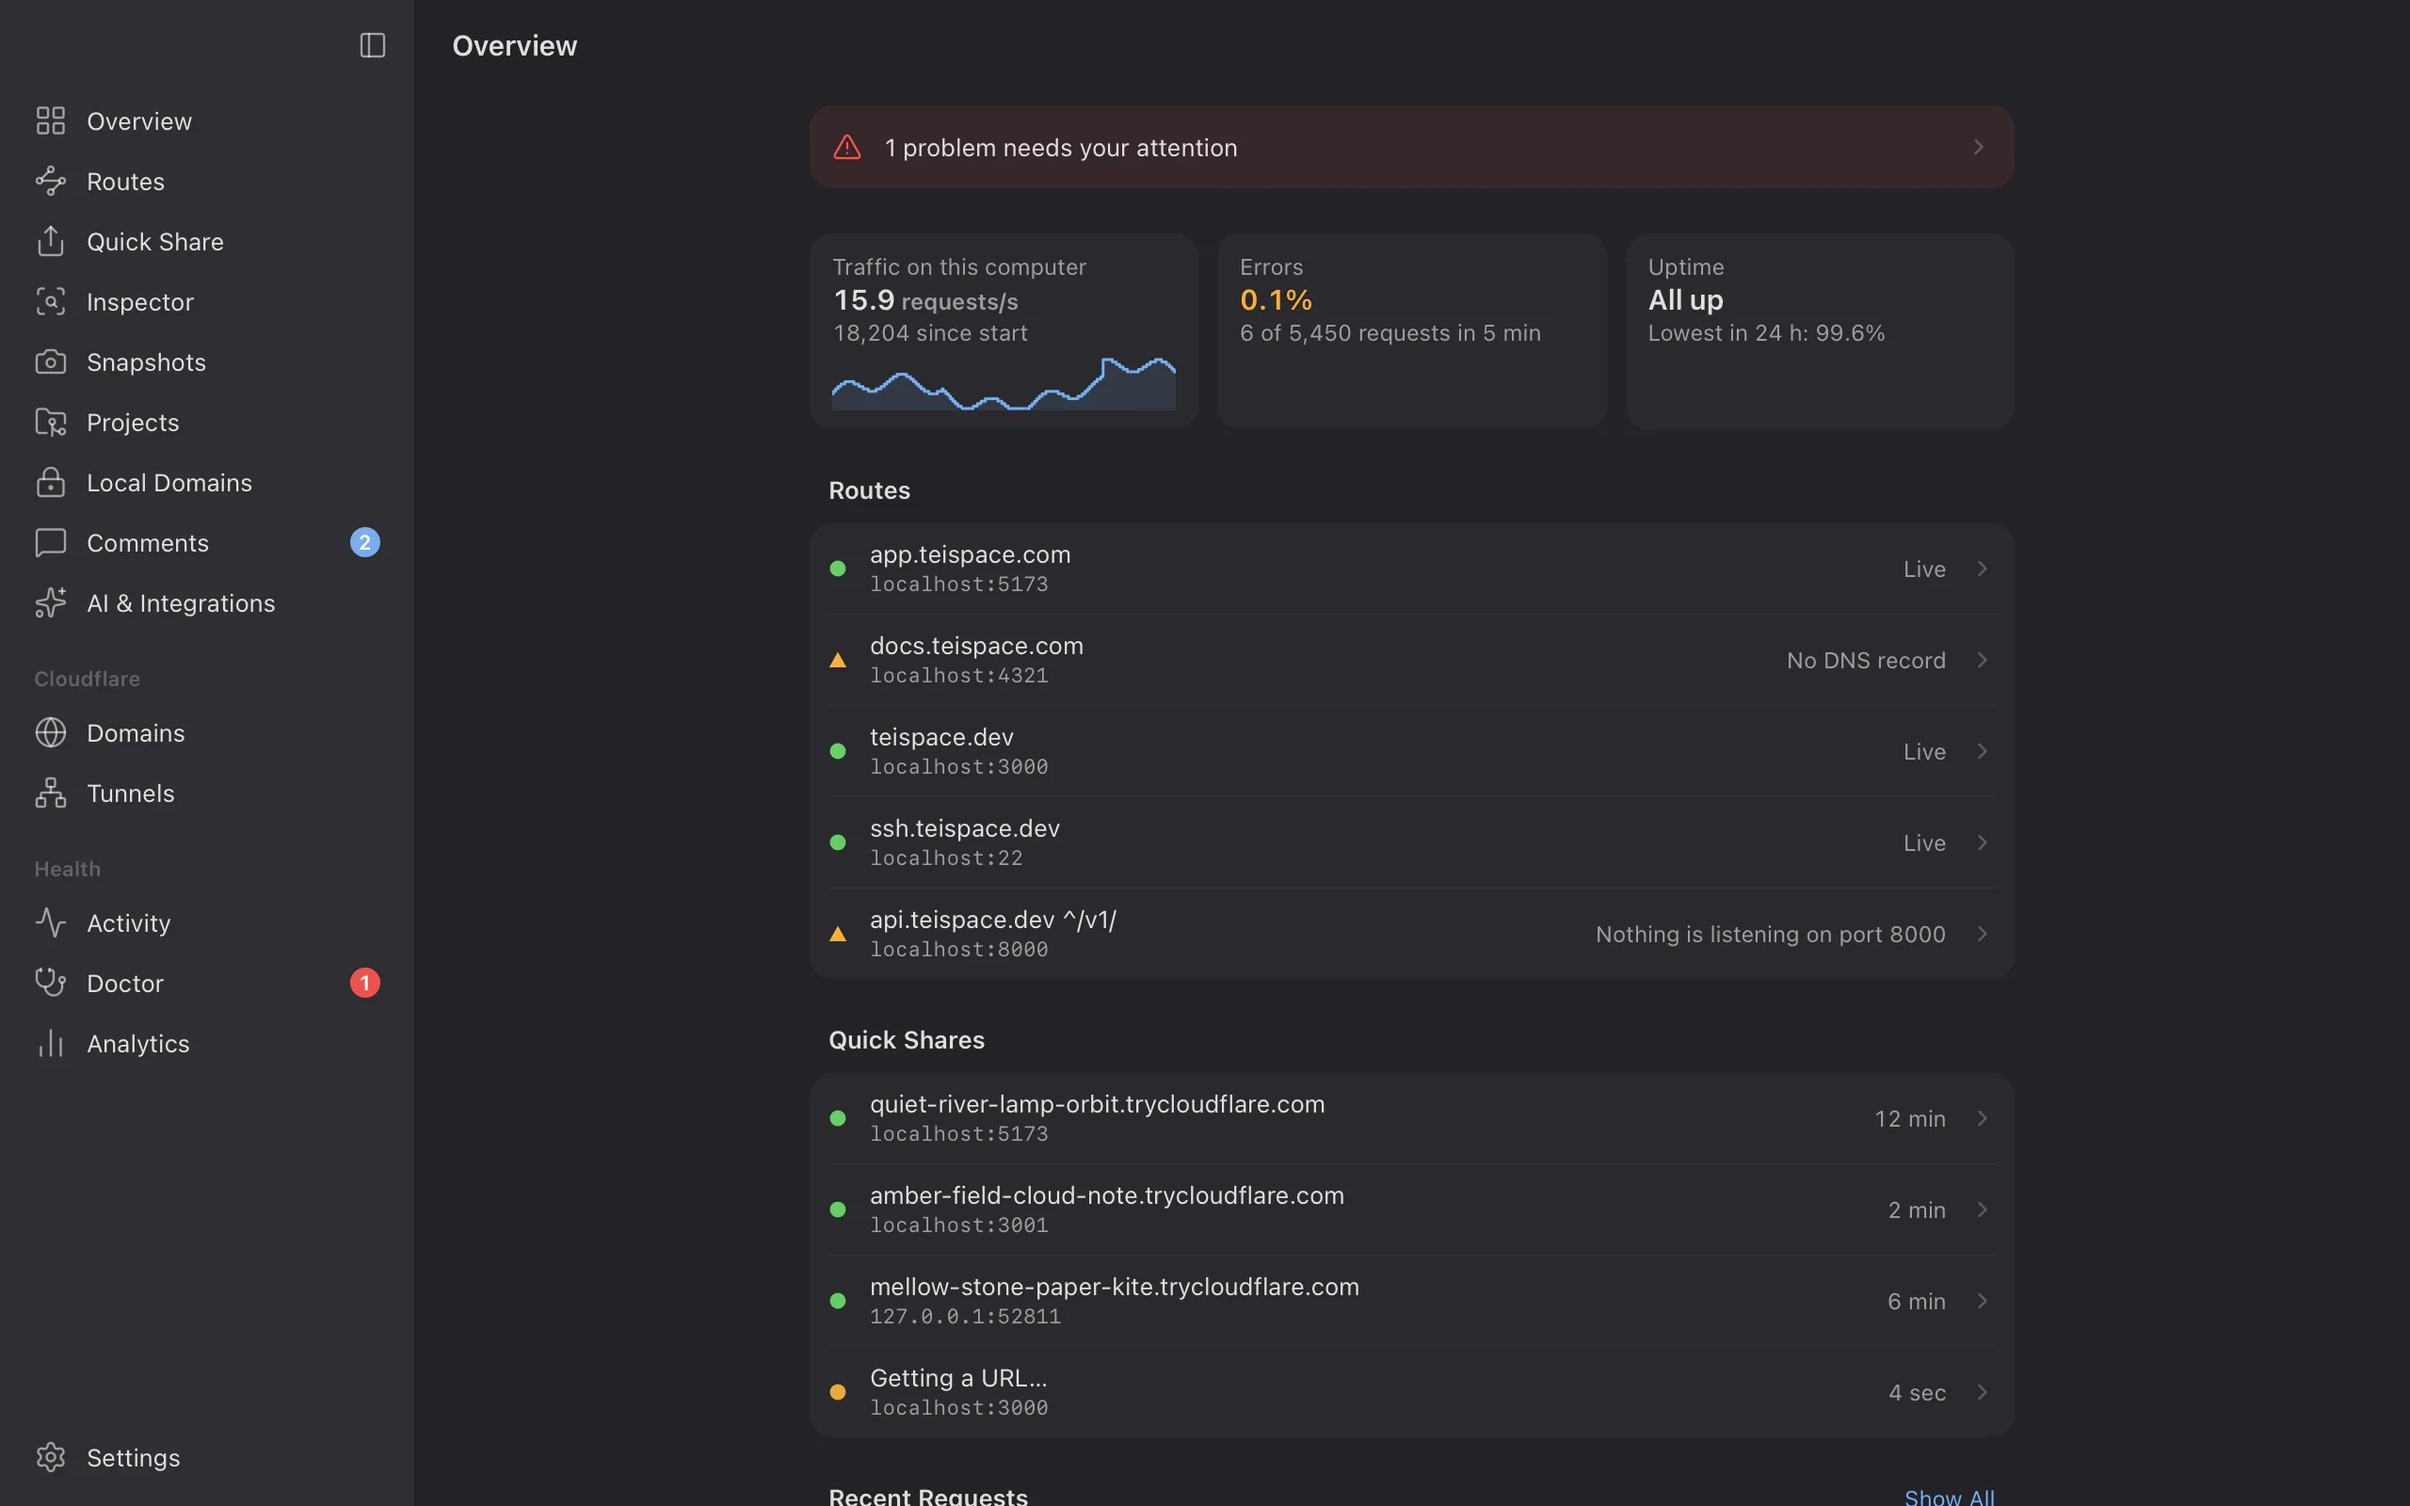
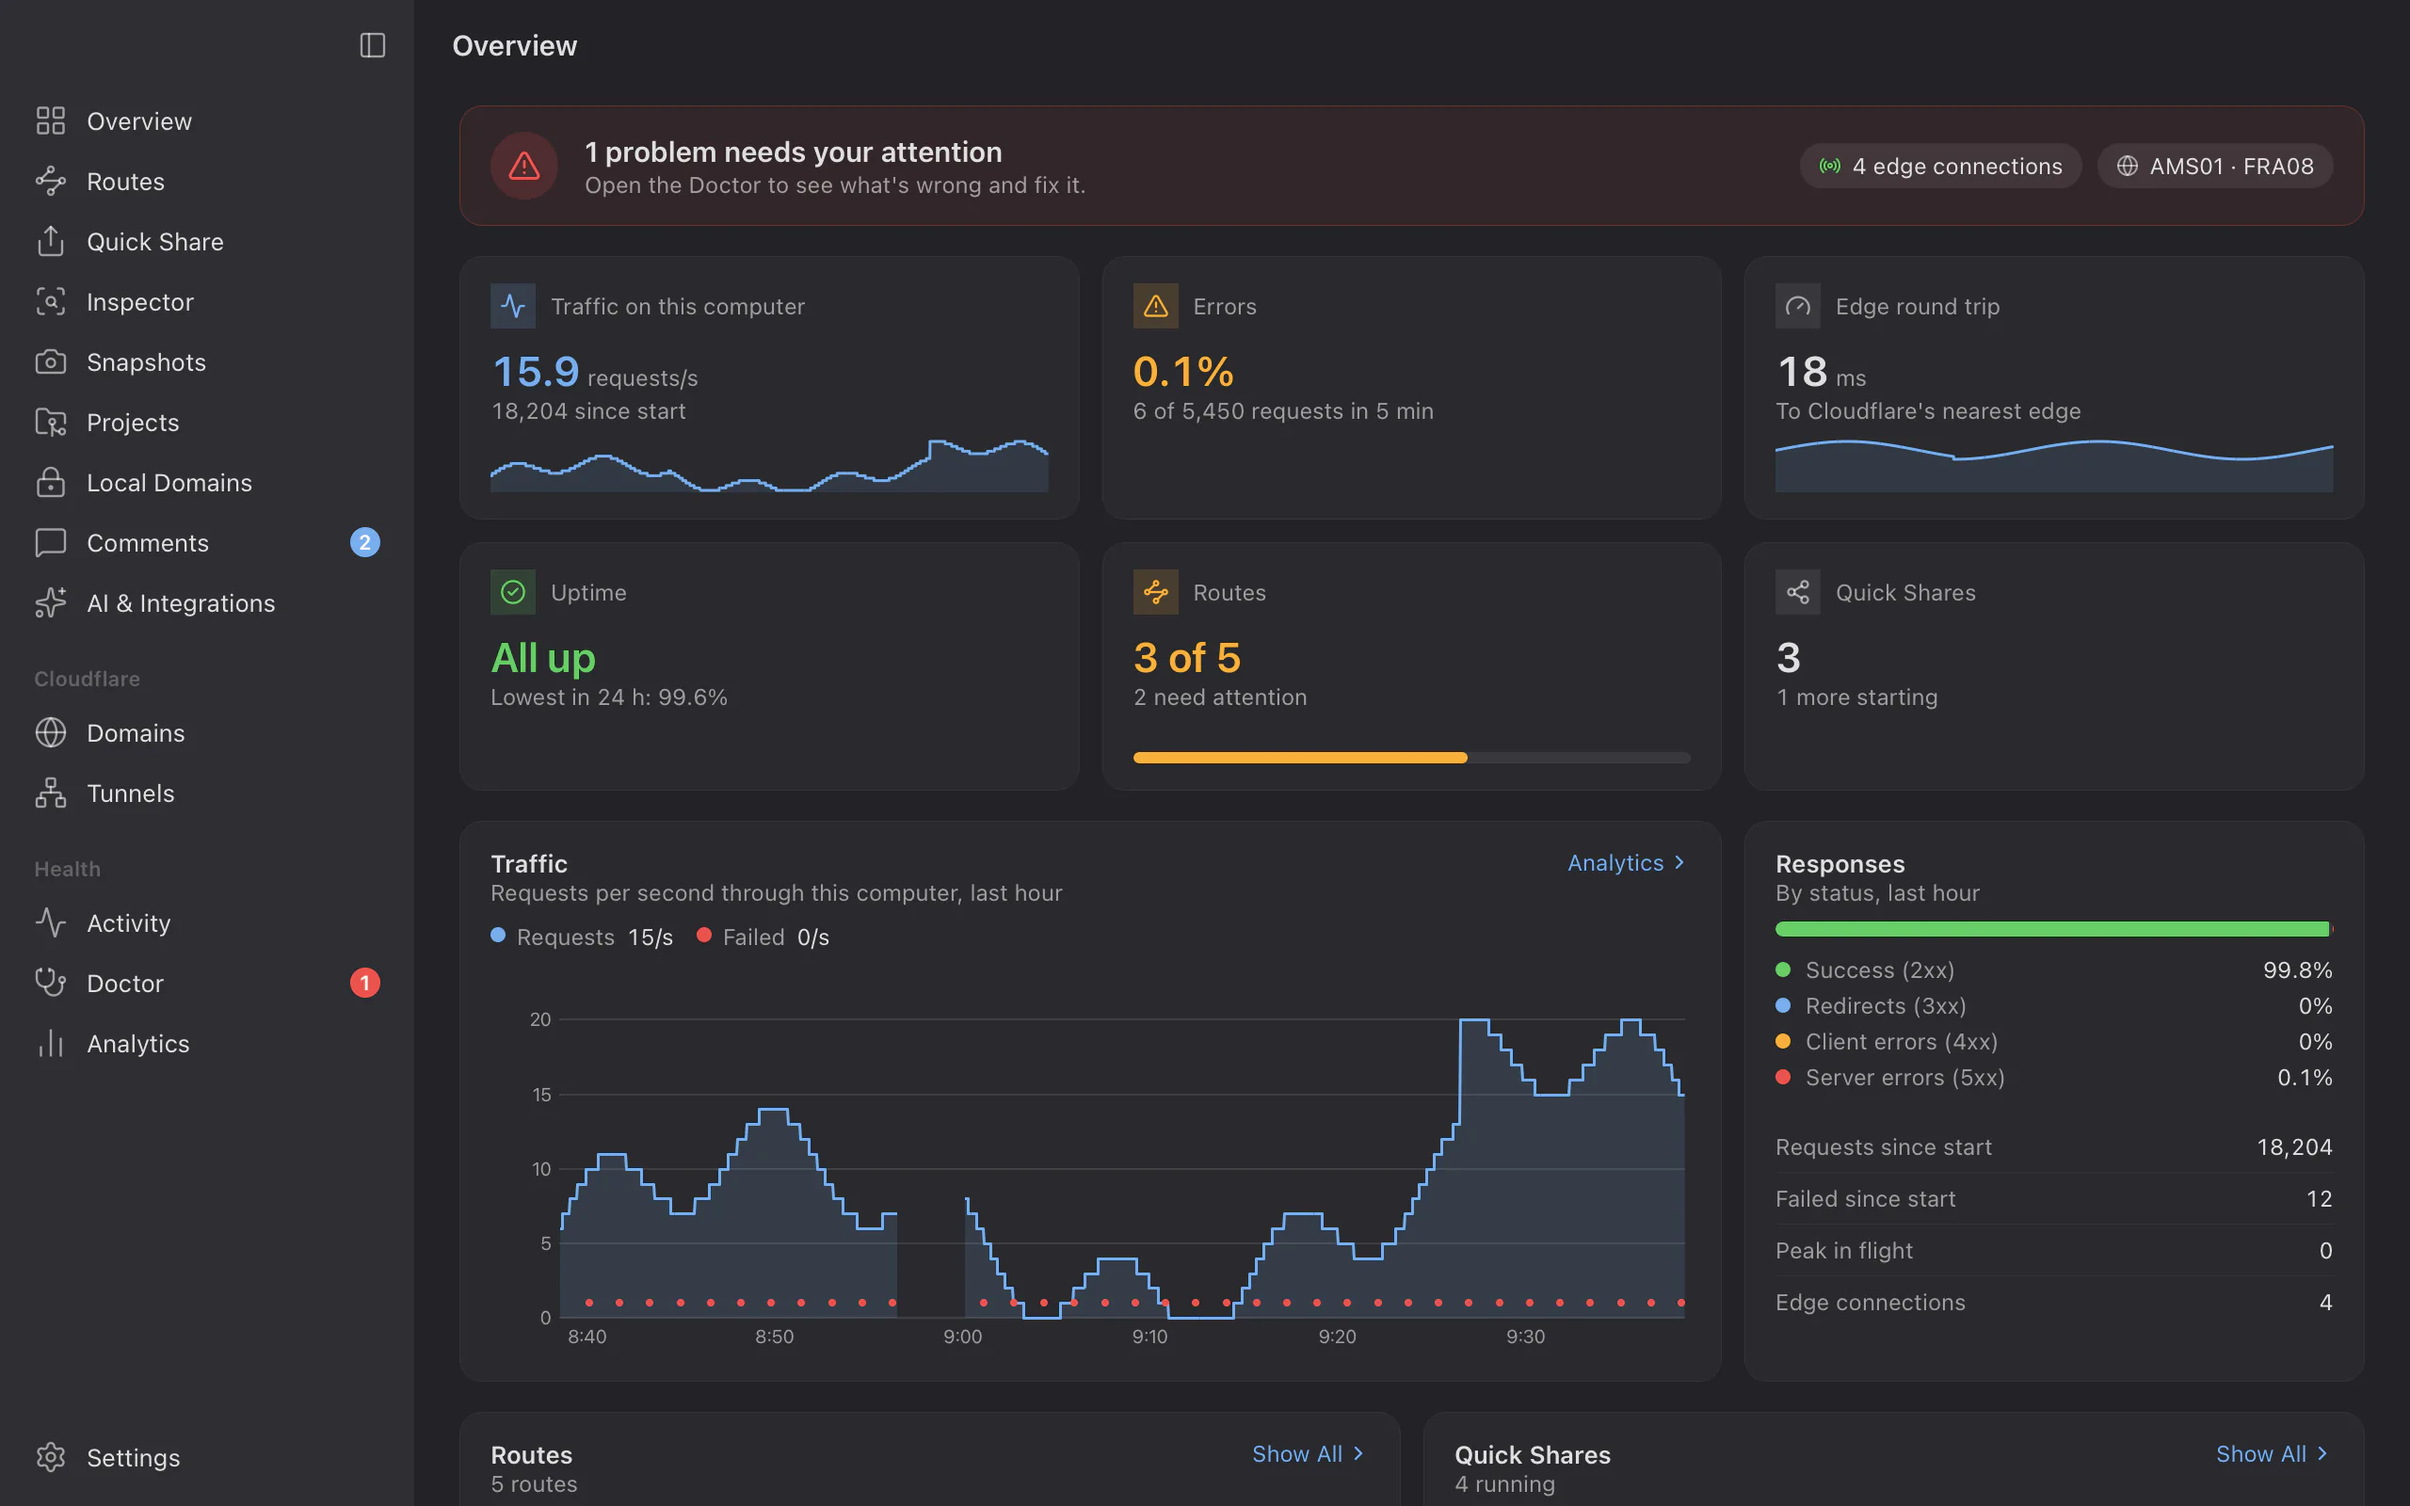
docs: what's new in 0.6.0, dashboard docs and screenshots

diff --git a/apps/web/app/(home)/page.tsx b/apps/web/app/(home)/page.tsx
@@ -204,10 +204,10 @@ export default async function Home() {
             className="group mb-7 inline-flex max-w-full items-center gap-2 rounded-full border border-fd-border bg-fd-background py-1 ps-1.5 pe-3 text-xs transition-colors hover:bg-fd-accent"
           >
             <span className="shrink-0 rounded-full bg-fd-foreground px-2 py-0.5 font-medium text-fd-background">
-              New in 0.5.0
+              New in 0.6.0
             </span>
             <span className="truncate text-fd-muted-foreground">
-              AI & Integrations, private hostnames
+              Dashboard Overview and Analytics
             </span>
             <ArrowRight
               className="size-3.5 shrink-0 text-fd-muted-foreground transition-transform group-hover:translate-x-0.5"

diff --git a/docs/release-notes/v0.6.0.md b/docs/release-notes/v0.6.0.md
@@ -1,0 +1,57 @@
+# Teitunnel 0.6.0
+
+Dashboards that use the whole window, Cloudflare sign-ins that stay signed in, and loading
+you can see.
+
+## Highlights
+
+- **A dashboard Overview.** A status banner, then cards for traffic, errors, edge round trip,
+  uptime, routes and Quick Shares; a live traffic chart, the response mix (2xx, 3xx, 4xx,
+  5xx), routes, Quick Shares, recent requests and activity. On a large display the cards
+  spread across the window, up to six in a row, instead of sitting in a narrow column.
+- **Analytics at a glance.** The account's totals for the period (requests, data served,
+  server errors, slowest P95, lowest uptime, busiest route), requests over time and the top
+  routes, above the per-route table.
+- **Sign-ins that stay signed in.** Cloudflare's refresh tokens change on every use. Accounts
+  from one sign-in used to refresh separately, and Cloudflare ended the sign-in, so you had to
+  sign in again and again. They now share one token. When a sign-in does end, the account
+  shows **Signed out** with **Sign In Again**, in Settings and on any page that needed it,
+  and Teitunnel stops retrying it.
+- **You can see it working.** Pages show their shape with a shimmer while they load, and a
+  thin bar under the toolbar moves while data loads or a change runs, so a slow answer no
+  longer looks like a hang.
+
+What's new, with a link to each guide: https://teitunnel.teispace.com/docs/getting-started/whats-new
+
+## Fixes
+
+- The Doctor listed warnings in two groups when this computer's local domains had findings.
+- Installing cloudflared retries requests GitHub couldn't answer, names GitHub's rate limit,
+  stops a download that stalls for 30 seconds instead of waiting forever, and uses
+  `GITHUB_TOKEN` for the release lookup when set (CI).
+- The database gives the space of pruned inspector history back to the disk (it is switched
+  to incremental auto-vacuum once, at the first start).
+- Background Doctor runs reuse a recent permission check instead of asking Cloudflare every
+  time.
+- Quick Share puts cards two across in a wide window; detail panes keep a readable width.
+- Dependency updates with security fixes (rusqlite, Next.js, Vite, zod).
+
+## Install
+
+The app updates itself (**Restart to Update**). Or download Teitunnel from
+**https://teitunnel.teispace.com/download**, or:
+
+- macOS: `brew install --cask teispace/tap/teitunnel`
+- Servers: the `teitunnel` archives below, the apt/dnf repository, or the Docker image
+  `teispace/teitunnel` (also `ghcr.io/teispace/teitunnel`).
+
+Every download is listed in `SHA256SUMS.txt` and carries GitHub build provenance
+(`gh attestation verify <file> --repo teispace/teitunnel`).
+
+## Known limitations
+
+- Windows builds are not code-signed yet, so Windows may show "Windows protected your PC":
+  choose **More info ▸ Run anyway**.
+- The browser extension isn't in the Chrome Web Store or Firefox Add-ons yet.
+- Private hostname routes are new: tell us on
+  [#48](https://github.com/teispace/teitunnel/issues/48) how they work for you.
